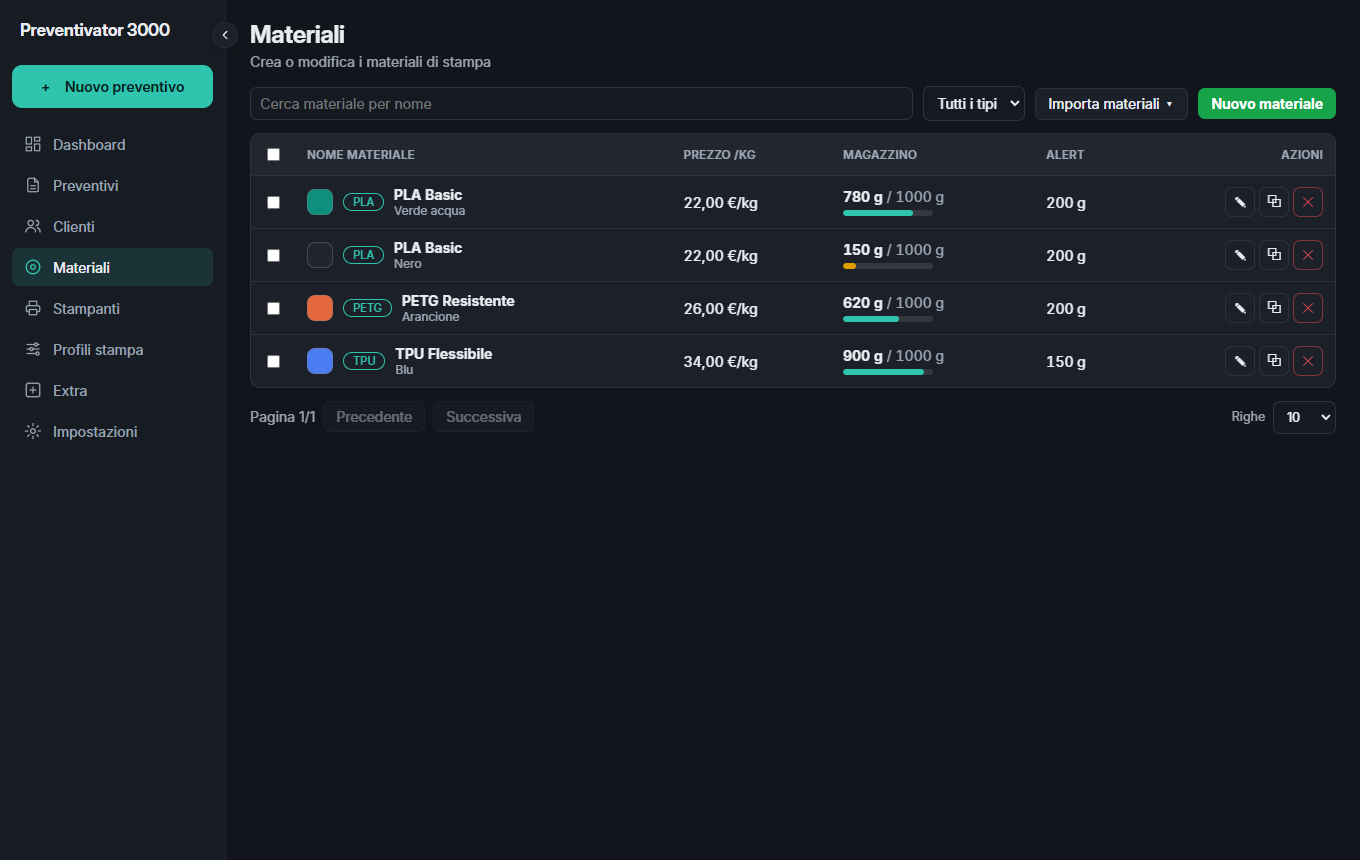
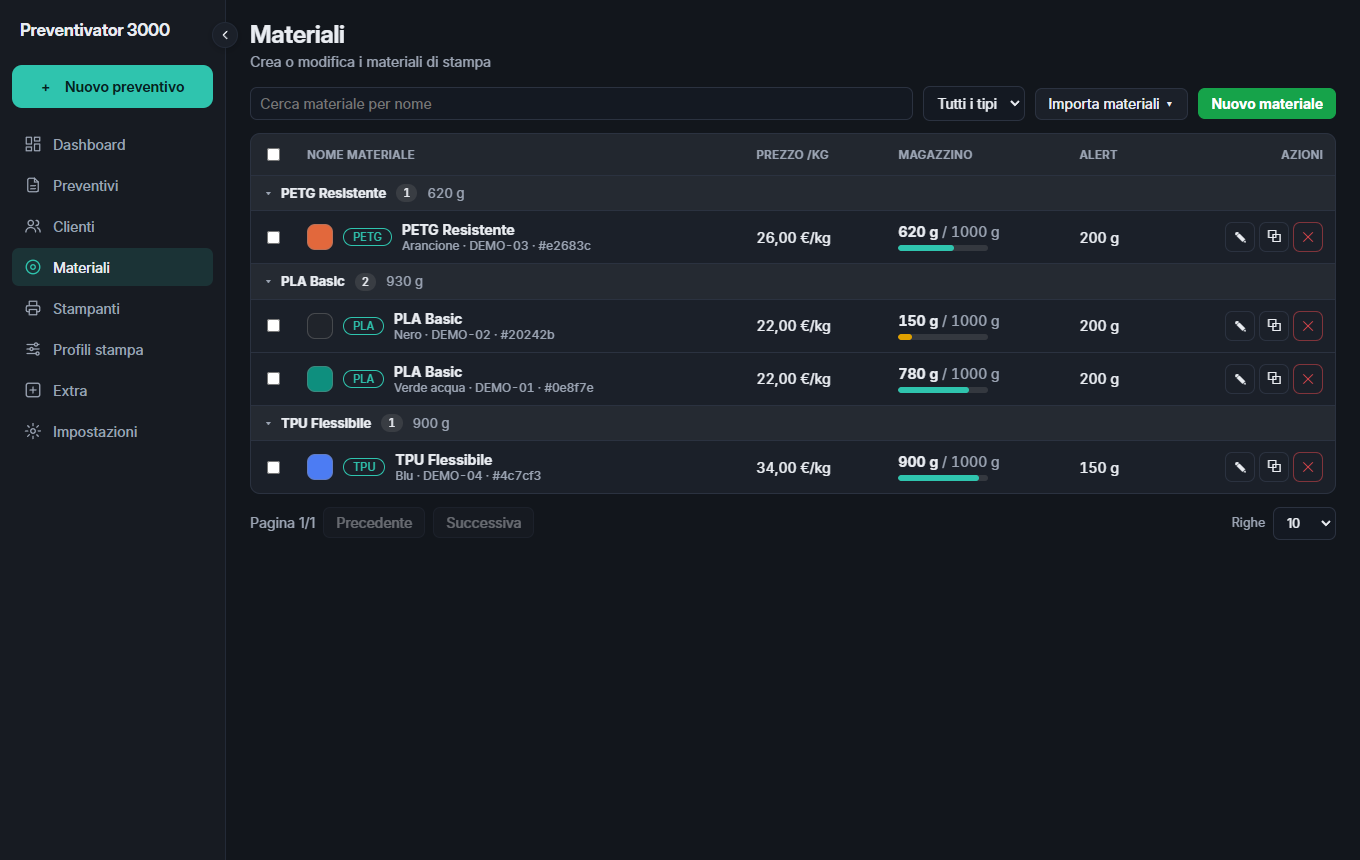
Versione 2026.11.06.7: materiali raggruppati per nome

diff --git a/index.html b/index.html
@@ -1,5 +1,5 @@
 <!DOCTYPE html>
-<!--APP_VER=2026.11.06.6-->
+<!--APP_VER=2026.11.06.7-->
 <html lang="it"><head><meta charset="utf-8"><title>Preventivator 3000</title>
 <meta name="viewport" content="width=device-width,initial-scale=1">
 <style>
@@ -143,6 +143,7 @@ nav .th{font-size:12.5px;color:#8f98a8;justify-content:center}
 #drw .g2{display:grid;grid-template-columns:1fr 1fr;gap:10px}#drw label{display:block;margin-bottom:10px}
 .crow{display:flex;gap:8px;align-items:center}.crow input[type=color]{width:54px;flex:none}
 .mtab .pb{width:90px}
+.mtab tr.mgh td{background:rgba(128,128,128,.1);padding:8px 12px;cursor:pointer;user-select:none;font-size:13px}.mtab tr.mgh td>*{vertical-align:middle}.mgi{display:inline-block;width:18px;color:var(--mu)}.mgc{display:inline-block;margin:0 10px;min-width:20px;padding:0 7px;text-align:center;font-size:11.5px;line-height:18px;border-radius:99px;background:rgba(128,128,128,.22)}
 /* barra laterale a tema + chiudibile */
 :root{--sidetx:#161a20;--sidemu:#586274;--sidehv:rgba(14,143,126,.12);--sidebd:#dcdfd8;--acx:#fff;--side:#ffffff}
 @media(prefers-color-scheme:dark){:root:not([data-theme]){--side:#171b22;--sidetx:#e9ecf1;--sidemu:#9aa3b2;--sidehv:rgba(52,211,184,.13);--sidebd:#232a37;--acx:#05231e}}
@@ -239,7 +240,7 @@ const I18N_EN={
 'Costo materiale':'Material cost','Energia':'Energy','Ammortamento macchina':'Machine depreciation','Costo fallimento':'Failure cost','Manodopera':'Labor',
 'Automatico':'Automatic','Chiaro':'Light','Scuro':'Dark','Oceano':'Ocean','Grafite':'Graphite','Tramonto':'Sunset','Viola':'Violet','Foresta':'Forest','Sabbia':'Sand','Rosa':'Rose',
 'Aggiungi':'Add','Modifica':'Edit','Elimina':'Delete','Duplica':'Duplicate','Salva':'Save','Annulla':'Cancel','Chiudi':'Close','Apri':'Open','Ordine':'Work order','PDF':'PDF','Nessun elemento. Aggiungine uno per iniziare.':'No items yet. Add one to get started.',
-'Senza nome':'Unnamed','Seleziona tutti':'Select all','Nome materiale':'Material name','Prezzo /kg':'Price /kg','Magazzino':'Stock','Alert':'Alert','Azioni':'Actions','Nessun materiale. Creane uno o importalo da Bambu Studio.':'No materials yet. Create one or import it from Bambu Studio.','Precedente':'Previous','Successiva':'Next','Righe':'Rows',
+'Senza nome':'Unnamed','Espandi o comprimi il gruppo':'Expand or collapse the group','Seleziona tutti':'Select all','Nome materiale':'Material name','Prezzo /kg':'Price /kg','Magazzino':'Stock','Alert':'Alert','Azioni':'Actions','Nessun materiale. Creane uno o importalo da Bambu Studio.':'No materials yet. Create one or import it from Bambu Studio.','Precedente':'Previous','Successiva':'Next','Righe':'Rows',
 'Crea o modifica i materiali di stampa':'Create or edit your print materials','Cerca materiale per nome':'Search materials by name','Tutti i tipi':'All types','Importa materiali ▾':'Import materials ▾','Da Bambu Studio':'From Bambu Studio','Da cartella…':'From folder…','Da file…':'From file…','Nuovo materiale':'New material','Aggiorna materiale':'Update material','Salva materiale':'Save material',
 'Importa da Bambu Studio':'Import from Bambu Studio','Caricamento…':'Loading…','Codice prodotto/colore':'Product/color code','Es. PLA-MATTE-BLK-042':'E.g. PLA-MATTE-BLK-042','Tipo (PLA, PETG…)':'Type (PLA, PETG…)','Colore materiale':'Material color','Nessun colore':'No color','Costi e scorte':'Costs and stock','Peso specifico g/cm³':'Density g/cm³','Prezzo €/kg':'Price €/kg','Markup %':'Markup %','Fallimento %':'Failure %','Peso bobina (g)':'Spool weight (g)','Rimanente (g)':'Remaining (g)','Soglia scorte (g)':'Low-stock threshold (g)','Avvisa sotto questa quantità':'Alert below this amount','Registro movimenti':'Stock log','Materiale rimanente':'Remaining material','Si scala da solo quando un preventivo passa a «Completato».':'Deducted automatically when a quote is set to “Completed”.','Bobina nuova (ripristina rimanente)':'New spool (reset remaining)','Acquisto e fornitore':'Purchase and supplier','Link di acquisto':'Purchase link','https://esempio.it/materiale':'https://example.com/material',
 'Scegli un filamento…':'Choose a filament…','(tuo)':'(yours)','Nessun filamento trovato in Bambu Studio':'No filaments found in Bambu Studio','Eliminare questo elemento?':'Delete this item?',
@@ -377,14 +378,20 @@ function list(k){if(k=='materials')return matList();const e=E[k];
  let h=`<div class=bar><h2>${e.t}</h2><span>${bamBt(k)}<button class=pr onclick="edit('${k}')">Aggiungi</button></span></div>${bamHt(k)}<table><tr>${e.f.map(f=>`<th>${f[1]}`).join('')}<th></tr>`;
  db[k].forEach(r=>h+=`<tr>${e.f.map(f=>`<td data-nt>${f[2]=='color'?sw(r[f[0]]||'#808080')+' '+esc(r[f[0]]||''):esc(r[f[0]])}`).join('')}<td class=r><button onclick="edit('${k}','${r.id}')">Modifica</button> <button onclick="del('${k}','${r.id}')">Elimina</button></tr>`);
  return h+'</table>'+(db[k].length?'':`<p class=mu>Nessun elemento. Aggiungine uno per iniziare.</p>`);}
-const MS={q:'',type:'',pp:10,pg:1,sel:new Set(),imp:false};
-function matRows(){const q=MS.q.toLowerCase(),ls=db.materials.filter(m=>(!MS.type||m.type==MS.type)&&(!q||[m.name,m.type,m.colorName,m.code].join(' ').toLowerCase().includes(q))),pp=+MS.pp||10,np=Math.max(1,Math.ceil(ls.length/pp));MS.pg=Math.min(Math.max(1,MS.pg),np);
- const pg=ls.slice((MS.pg-1)*pp,MS.pg*pp);
+const MS={q:'',type:'',pp:10,pg:1,sel:new Set(),imp:false,col:new Set()};
+function mgT(g){MS.col.has(g)?MS.col.delete(g):MS.col.add(g);matRef()}
+function matRows(){const q=MS.q.toLowerCase(),ls=db.materials.filter(m=>(!MS.type||m.type==MS.type)&&(!q||[m.name,m.type,m.colorName,m.code].join(' ').toLowerCase().includes(q)));
+ const grp=new Map();ls.forEach(m=>{const k=(m.name||'').trim();if(!grp.has(k))grp.set(k,[]);grp.get(k).push(m)});
+ const units=[];[...grp.keys()].sort((a,b)=>a.localeCompare(b,LOC,{sensitivity:'base'})).forEach(k=>{const a=grp.get(k).sort((x,y)=>(x.colorName||'').localeCompare(y.colorName||'',LOC,{sensitivity:'base'}));if(MS.col.has(k))units.push({k});else a.forEach(m=>units.push({k,m}))});
+ const pp=+MS.pp||10,np=Math.max(1,Math.ceil(units.length/pp));MS.pg=Math.min(Math.max(1,MS.pg),np);
+ const pg=units.slice((MS.pg-1)*pp,MS.pg*pp);
+ const ghd=k=>{const a=grp.get(k),tot=a.reduce((s,m)=>s+(+m.stock||0),0),c=MS.col.has(k);return `<tr class=mgh onclick="mgT(this.dataset.g)" data-g="${esc(k)}" title="Espandi o comprimi il gruppo"><td colspan=6><span class=mgi>${c?'▸':'▾'}</span><b ${k?'data-nt':''}>${esc(k||'Senza nome')}</b><span class=mgc>${a.length}</span><span class=mu>${Math.round(tot)} g</span></td></tr>`};
+ const mkBody=()=>{let lastG=null;return pg.map(u=>{const h=u.k!==lastG?ghd(u.k):'';lastG=u.k;return h+(u.m?row(u.m):'')}).join('')};
  const row=m=>{const cap=+m.cap>0?+m.cap:1000,st=+m.stock||0,pc=Math.max(0,Math.min(100,st/cap*100)),col=st<=0?'#d33':(+m.alert>0&&st<=+m.alert)?'#e0a100':'var(--ac)';
-  return `<tr><td style="width:34px"><input type=checkbox style="width:auto" ${MS.sel.has(m.id)?'checked':''} onchange="msel('${m.id}',this.checked)"><td><div class=nmc><span class=sw style="background:${esc(m.color||'#808080')}"></span>${m.type?`<span class=bdg>${esc(m.type)}</span>`:''}<div><b>${esc(m.name||'Senza nome')}</b>${m.colorName?`<div class=mu style="font-size:12px">${esc(m.colorName)}</div>`:''}</div></div>
+  return `<tr><td style="width:34px"><input type=checkbox style="width:auto" ${MS.sel.has(m.id)?'checked':''} onchange="msel('${m.id}',this.checked)"><td><div class=nmc><span class=sw style="background:${esc(m.color||'#808080')}"></span>${m.type?`<span class=bdg>${esc(m.type)}</span>`:''}<div><b ${m.name?'data-nt':''}>${esc(m.name||'Senza nome')}</b>${m.colorName||m.code||m.color?`<div class=mu data-nt style="font-size:12px">${[m.colorName,m.code,m.color].filter(Boolean).map(esc).join(' · ')}</div>`:''}</div></div>
   <td>${eur(m.costKg)}/kg<td><b>${Math.round(st)} g</b> <span class=mu>/ ${Math.round(cap)} g</span><div class=pb><i style="width:${pc}%;background:${col}"></i></div>
   <td>${+m.alert>0?Math.round(m.alert)+' g':'<span class=mu>-</span>'}<td style="white-space:nowrap;text-align:right"><button class=ib title="Modifica" onclick="edit('materials','${m.id}')">✎</button> <button class=ib title="Duplica" onclick="dupM('${m.id}')">⧉</button> <button class="ib dl" title="Elimina" onclick="del('materials','${m.id}')">✕</button></tr>`};
- return `<table class=mtab><thead><tr><th><input type=checkbox style="width:auto" onchange="mselAll(this.checked)" title="Seleziona tutti"><th>Nome materiale<th>Prezzo /kg<th>Magazzino<th>Alert<th style="text-align:right">Azioni</tr></thead><tbody>${pg.map(row).join('')||'<tr><td colspan=6 class=mu style="padding:18px">Nessun materiale. Creane uno o importalo da Bambu Studio.</tr>'}</tbody></table>
+ return `<table class=mtab><thead><tr><th><input type=checkbox style="width:auto" onchange="mselAll(this.checked)" title="Seleziona tutti"><th>Nome materiale<th>Prezzo /kg<th>Magazzino<th>Alert<th style="text-align:right">Azioni</tr></thead><tbody>${mkBody()||'<tr><td colspan=6 class=mu style="padding:18px">Nessun materiale. Creane uno o importalo da Bambu Studio.</tr>'}</tbody></table>
  <div class=pgn style="margin-top:10px"><span class=mu>Pagina ${MS.pg}/${np}</span><button ${MS.pg<=1?'disabled':''} onclick="MS.pg--;matRef()">Precedente</button><button ${MS.pg>=np?'disabled':''} onclick="MS.pg++;matRef()">Successiva</button><span style="flex:1"></span><label style="display:flex;gap:8px;align-items:center;margin:0">Righe<select style="width:auto" onchange="MS.pp=+this.value;MS.pg=1;matRef()">${[5,10,25,50,100].map(n=>`<option ${n==MS.pp?'selected':''}>${n}`).join('')}</select></label></div>`}
 function msel(id,v){v?MS.sel.add(id):MS.sel.delete(id);selUi()}
 function mselAll(v){db.materials.forEach(m=>v?MS.sel.add(m.id):MS.sel.delete(m.id));matRef()}
